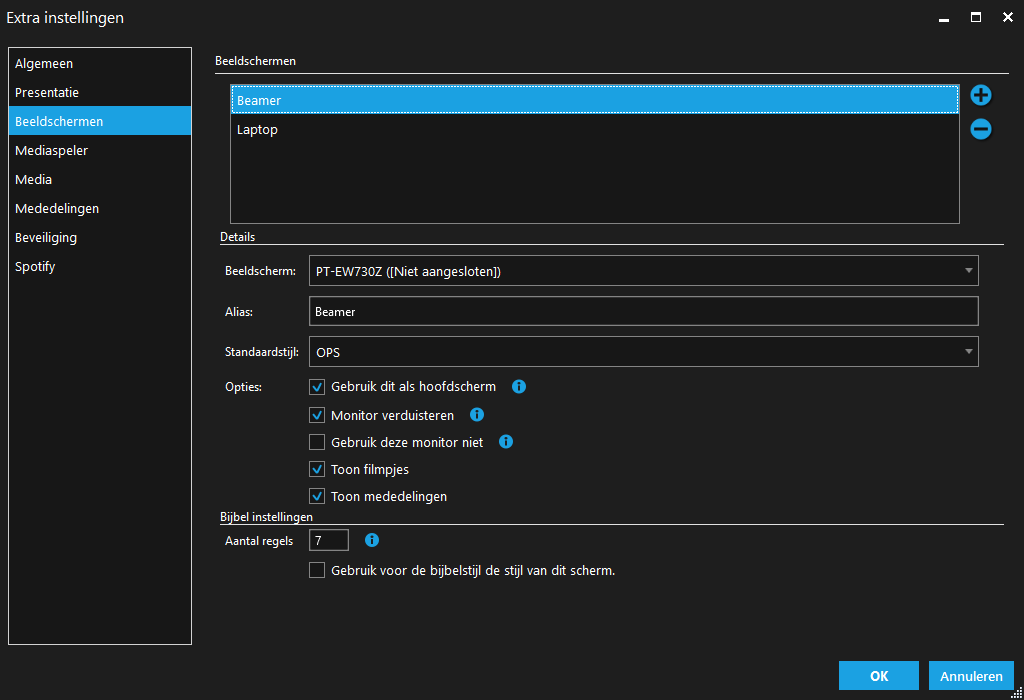
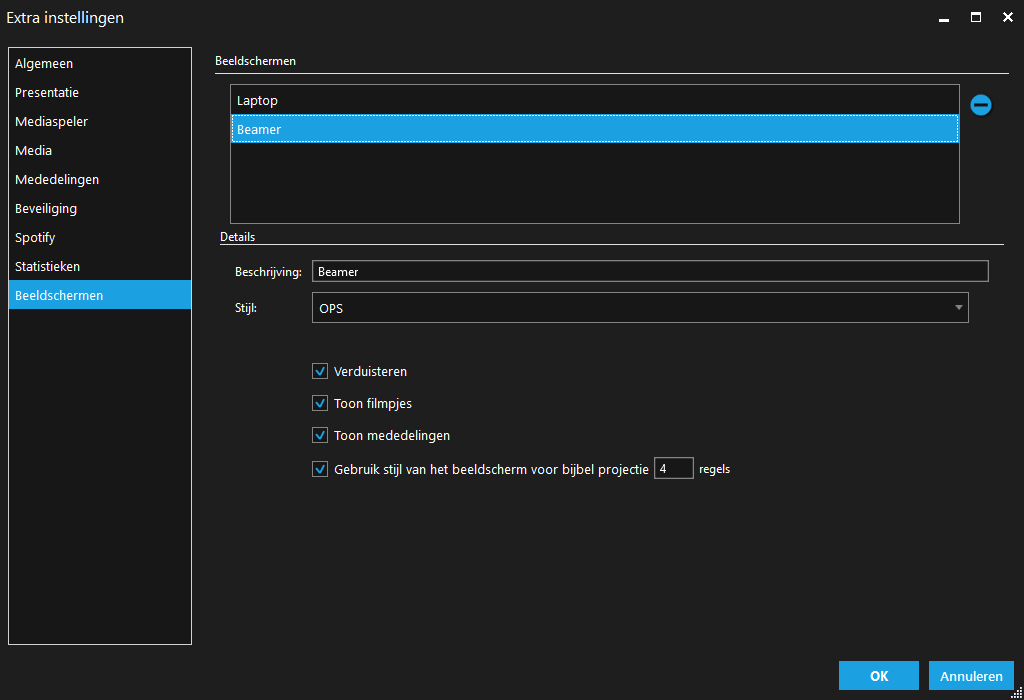
Update beeldscherminstellingen en andere kleine tekstuele wijzigingen

diff --git a/source/uitgebreid/ops/beeldscherminstellingen.rst b/source/uitgebreid/ops/beeldscherminstellingen.rst
@@ -7,11 +7,18 @@ OPS - Beeldscherminstellingen
 .. Tip::
   De meeste problemen met de beeldscherminstellingen ontstaan door het Live-scherm aan te zetten, zonder dat de beamer met de laptop is verbonden. Problemen kan je dus voorkomen door eerst de beamer aan te sluiten. Vervolgens te verifiëren of de beamer werkt, door de muis of een ander venster naar (rechts) het beamerscherm te slepen en pas daarna OPS op te starten en het Live-scherm aan te zetten.
 
-Mocht het toch nodig zijn om wijzigingen te maken, dan zijn de instellingen te vinden bij de :guilabel:`Extra instellingen` in het lint onder de tab :guilabel:`home`. De instellingen zijn allen beschikbaar als het :guilabel:`Live-scherm` uit staat.
+De presentatie-instellingen veranderen zodra OPS Presenter is gestart zonder dat de beamer aangesloten is. Het :guilabel:`Live-scherm` moet uitstaan om hier wijzigingen in aan te brengen. Zorg dat de instellingen staan zoals in het gele kader:
+
+- Selecteer projectiescherm: :guilabel:`Beamer`
+- Selecteer actieve beeldscherm: :guilabel:`Beamer` (als enige aanvinken)
 
 .. image:: /images/ops-presenter-extra-instellingen.png
 
-Vervolgens kunnen de beeldscherminstellingen gevonden worden door in het linkermenu op :guilabel:`Beeldschermen` te klikken. Om een correcte weergave te garanderen moeten de instellingen gelijk zijn aan de volgende afbeeldingen. Beeldschermen kunnen worden toegevoegd als ze aangesloten zijn. Gebruik hiervoor de plus- en minknopjes rechts in het venster. Het alias is ter verduidelijking.
+Mocht het toch nodig zijn om wijzigingen te maken, dan zijn de instellingen te vinden bij de :guilabel:`Extra instellingen` in het lint onder de tab :guilabel:`home` (zie rode kader in bovenstaande afbeelding). Ook deze instellingen zijn allen beschikbaar als het :guilabel:`Live-scherm` uit staat.
+
+Vervolgens kunnen de beeldscherminstellingen gevonden worden door in het linkermenu op :guilabel:`Beeldschermen` te klikken. Om een correcte weergave te garanderen moeten de instellingen gelijk zijn aan de volgende afbeeldingen.
+
+Beeldschermen worden automatisch toegevoegd als ze aangesloten worden. Als om de één of andere reden de instellingen opnieuw gemaakt worden zullen de schermen een andere :guilabel:`Beschrijving` hebben. De laptop heet in dat geval (waarschijnlijk) `AUO31ED`. De beamer is `PT-EW730Z`.
 
 .. image:: /images/ops-beeldscherminstellingen-laptop.png
 

diff --git a/source/uitgebreid/ops/notities-in-playlist.rst b/source/uitgebreid/ops/notities-in-playlist.rst
@@ -1,5 +1,5 @@
-Notities toevoegen in Playlist
-==============================
+OPS - Notities toevoegen in Playlist
+====================================
 In sommige gevallen kan het handig zijn om notities aan de playlist toe te voegen. OPS ondersteund dit echter niet officieel. Het is echter door middel van een *hack* toch mogelijk.
 
 Klik in de playlist op het lied *waaronder* de notitie moet worden weergegeven.

diff --git a/source/voorbereiden/aansluiten.rst b/source/voorbereiden/aansluiten.rst
@@ -29,3 +29,5 @@ Technische gegevens:
 - Ingestelde schermresolutie: 1280x720 pixels
 - Aspect Ratio: 16:9
 - Verversingssnelheid: 60Hz
+
+Als er problemen zijn met OPS Presenter is het het mogelijk dat de beeldscherminstellingen verkeerd zijn. Controleer deze instellingen op de pagina: :doc:`../uitgebreid/ops/beeldscherminstellingen`
